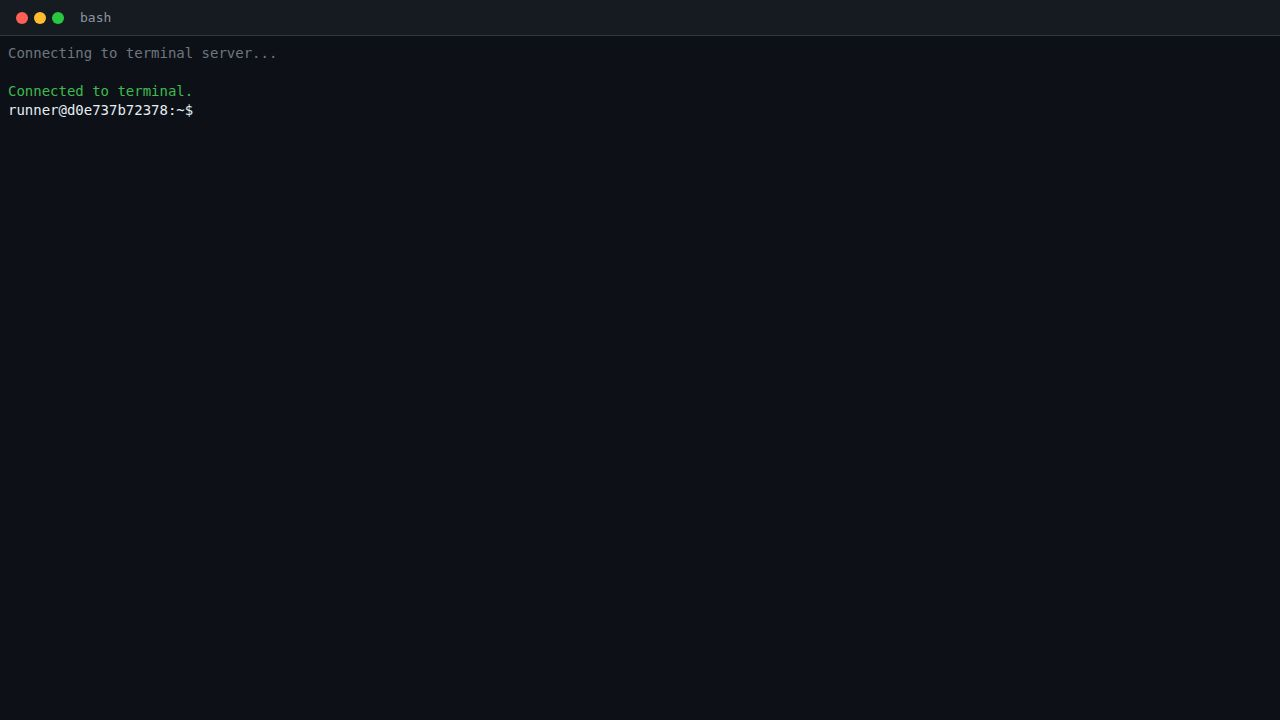
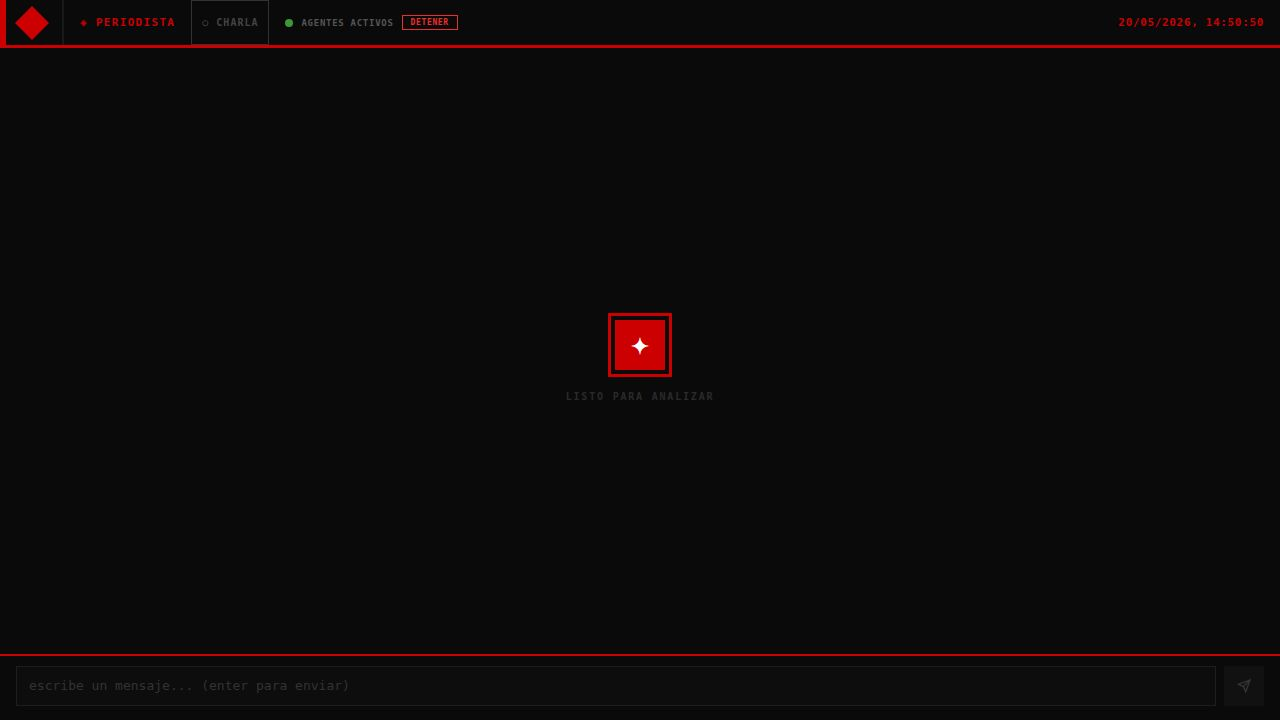
Update web terminal to use a different port and fix API proxy
Adjust artifact configuration to use port 22843 due to conflicts, update the Vite proxy target in vite.config.ts to correctly point to the API server on port 8080, and ensure the timestamp generation in runner.ts occurs dynamically within the runAgent function.

Replit-Commit-Author: Agent
Replit-Commit-Session-Id: 1161603d-196b-4764-a1cc-203f590eac98
Replit-Commit-Checkpoint-Type: full_checkpoint
Replit-Commit-Event-Id: a2ae7a4e-4552-46ab-b9b8-0058cb6e3932
Replit-Commit-Screenshot-Url: https://storage.googleapis.com/screenshot-production-us-central1/2b0f282d-80b9-443d-b518-7563054cf825/1161603d-196b-4764-a1cc-203f590eac98/ApLpSZA
Replit-Helium-Checkpoint-Created: true

diff --git a/artifacts/api-server/src/agents/runner.ts b/artifacts/api-server/src/agents/runner.ts
@@ -11,12 +11,6 @@ const __dir = dirname(fileURLToPath(import.meta.url));
 const LOCAL_BIN = resolve(__dir, "../../node_modules/.bin/opencode");
 const OPENCODE = existsSync(LOCAL_BIN) ? LOCAL_BIN : "opencode";
 
-const now = new Date().toLocaleString("es-AR", {
-  timeZone: "America/Argentina/Buenos_Aires",
-  dateStyle: "full",
-  timeStyle: "short",
-});
-
 interface AccionRaw {
   pais?: string;
   bandera?: string;
@@ -80,6 +74,11 @@ function normalize(accion: AccionRaw): AccionRaw {
 }
 
 export async function runAgent(agent: AgentConfig): Promise<{ ok: boolean; count: number; error?: string }> {
+  const now = new Date().toLocaleString("es-AR", {
+    timeZone: "America/Argentina/Buenos_Aires",
+    dateStyle: "full",
+    timeStyle: "short",
+  });
   const fullPrompt = `Fecha y hora actual: ${now}\n\n${agent.systemPrompt}\n\nBuscá acciones colectivas RECIENTES para esta sección: ${agent.label}`;
   const args = ["run", "--format", "json", fullPrompt];
 

diff --git a/artifacts/web-terminal/vite.config.ts b/artifacts/web-terminal/vite.config.ts
@@ -68,7 +68,7 @@ export default defineConfig({
     },
     proxy: {
       "/api": {
-        target: "http://localhost:3000",
+        target: "http://localhost:8080",
         changeOrigin: true,
       },
     },